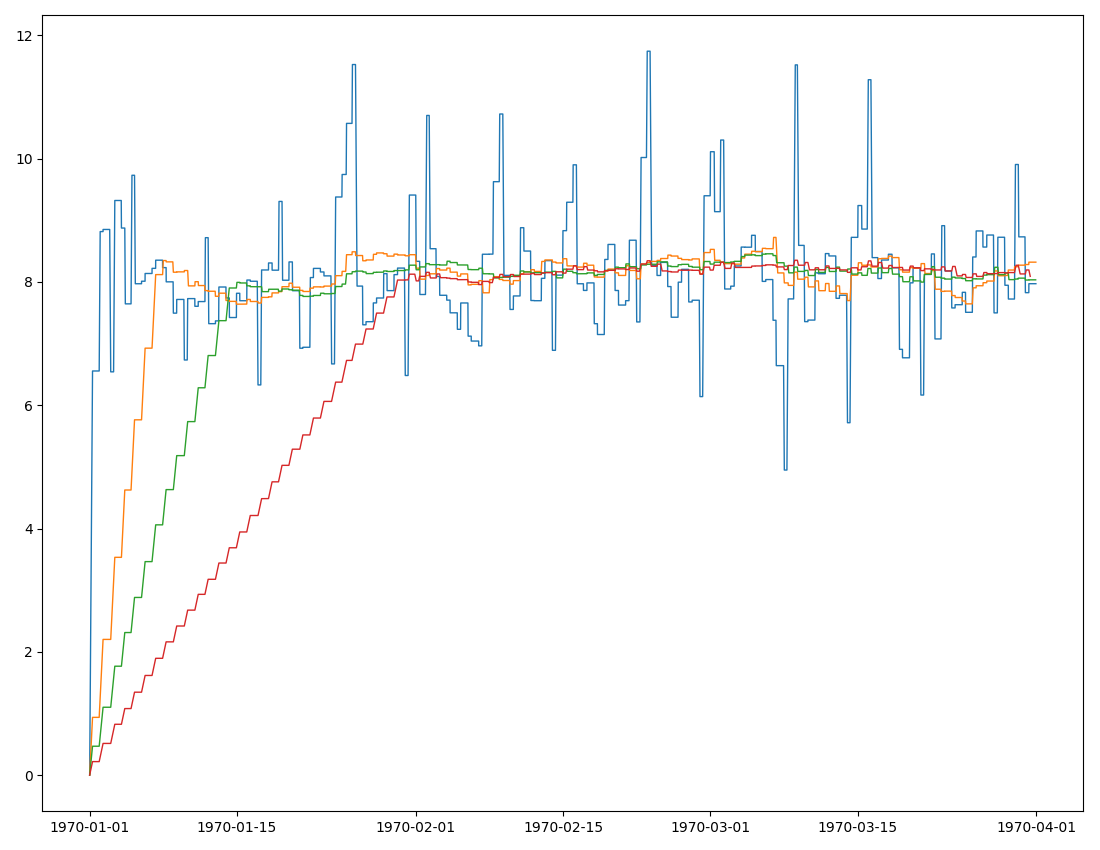
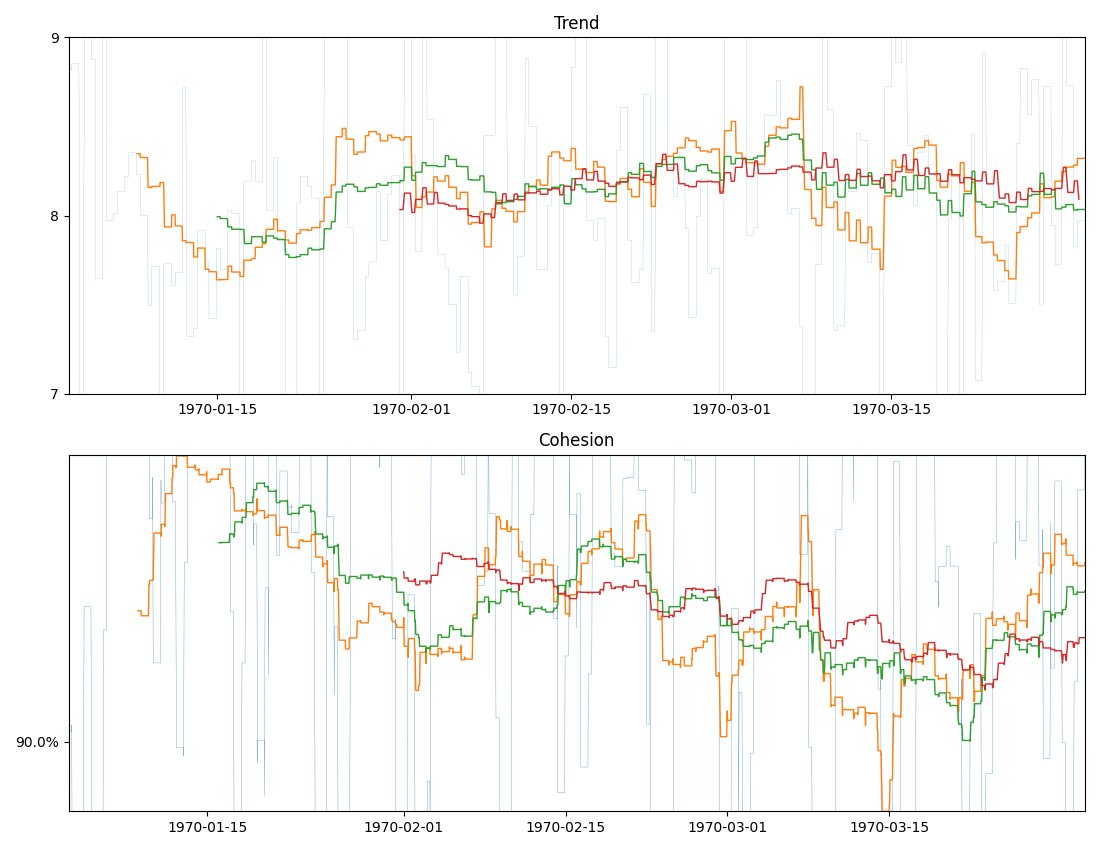
cohesion line graph

diff --git a/render.py b/render.py
@@ -7,7 +7,6 @@ import time
 import datetime
 import math
 import enum
-import collections
 
 from PIL import Image, ImageDraw, ImageFont
 import matplotlib.pyplot as plt
@@ -91,6 +90,7 @@ def main(outfolder, infiles):  # pragma: no cover
     cohesion_lut = colormap_to_lut(cohesion_colormap)
 
     trend_segments = {}
+    cohesion_segments = {}
     for days,name in ((1, "daily"), (7, "weekly"), (14, "fortnightly"), (30, "monthly")):
         interval = days * seconds_per_day
 
@@ -100,11 +100,11 @@ def main(outfolder, infiles):  # pragma: no cover
         draw_chart_frame(*draw_trend_chart(trend_segments[days], interval, trend_lut)).save(f"{outfolder}/trend_{name}.png")
 
         print()
-        cohesion_segments = calc_trend_segment_values(split_segments(make_cohesion_segments(trend_segments[1], interval)), interval)
-        draw_chart_frame(*draw_trend_chart(cohesion_segments, interval, cohesion_lut, normalized=True, extra_ignore_interval=seconds_per_day), percentage=True).save(f"{outfolder}/cohesion_{name}.png")
+        cohesion_segments[days] = calc_trend_segment_values(split_segments(make_cohesion_segments(trend_segments[1], interval)), interval)
+        draw_chart_frame(*draw_trend_chart(cohesion_segments[days], interval, cohesion_lut, normalized=True, extra_ignore_interval=seconds_per_day), percentage=True).save(f"{outfolder}/cohesion_{name}.png")
 
     print()
-    figs = draw_plots(events, off_segments, on_segments, trend_segments)
+    figs = draw_plots(events, off_segments, on_segments, trend_segments, cohesion_segments)
     for i,fig in enumerate(figs):
         fig.savefig(f"{outfolder}/plots{i+1}.png")
         fig.savefig(f"{outfolder}/plots{i+1}.pdf")
@@ -612,7 +612,7 @@ def format_hours(t):
     return "{:2.0f}:{:02.0f}".format(hours, minutes)
 
 
-def draw_plots(events, off_segments, on_segments, trend_segments):
+def draw_plots(events, off_segments, on_segments, trend_segments, cohesion_segments):
     print("drawing plots...")
 
     advanced_plots = True
@@ -713,13 +713,52 @@ def draw_plots(events, off_segments, on_segments, trend_segments):
     w = 11
     h = 8.5
 
-    fig2, ax = plt.subplots(1, 1, figsize=(w,h), tight_layout=True)
+    fig2, axs = plt.subplots(2, 1, figsize=(w,h), tight_layout=True)
 
-    
+    full_range = False
+
+    x5 = {}
+    y5 = {}
     for k in trend_segments:
-        x5 = [datetime.datetime.fromtimestamp(time.mktime(i.start)) for i in trend_segments[k]]
-        y5 = [i.start_value/(60*60*k) for i in trend_segments[k]]
-        ax.plot(x5, y5, linewidth=1)
+        x5[k] = []
+        y5[k] = []
+        for s in trend_segments[k]:
+            if time.mktime(s.start) < time.mktime(trend_segments[k][0].start) + (k * seconds_per_day):
+                continue
+            x5[k].append(datetime.datetime.fromtimestamp(time.mktime(s.start)))
+            y5[k].append(s.start_value / (k * 60 * 60))
+        linewidth = 0.1 if k == 1 else 1
+        axs[0].plot(x5[k], y5[k], linewidth=linewidth)
+    axs[0].set_title("Trend")
+    axs[0].set_xlim(x5[1][0], x5[1][-1])
+    if full_range or not y5[7]:
+        axs[0].set_ylim(0, 24)
+    else:
+        axs[0].set_ylim(math.floor(min(y5[7])), math.ceil(max(y5[7])))
+    axs[0].xaxis.set_minor_locator(matplotlib.dates.MonthLocator())
+    axs[0].yaxis.set_major_locator(matplotlib.ticker.MultipleLocator(4 if full_range else 1))
+    
+    x6 = {}
+    y6  ={}
+    for k in cohesion_segments:
+        x6[k] = []
+        y6[k] = []
+        for s in cohesion_segments[k]:
+            if time.mktime(s.start) < time.mktime(cohesion_segments[k][0].start) + ((k + 1) * seconds_per_day):
+                continue
+            x6[k].append(datetime.datetime.fromtimestamp(time.mktime(s.start)))
+            y6[k].append((s.start_value * 100) / (k * seconds_per_day))
+        linewidth = 0.2 if k == 1 else 1
+        axs[1].plot(x6[k], y6[k], linewidth=linewidth)
+    axs[1].set_title("Cohesion")
+    axs[1].set_xlim(x6[1][0], x6[1][-1])
+    if full_range or not y6[7]:
+        axs[1].set_ylim(0, 100)
+    else:
+        axs[1].set_ylim(min(y6[7]), max(y6[7]))
+    axs[1].xaxis.set_minor_locator(matplotlib.dates.MonthLocator())
+    axs[1].yaxis.set_major_locator(matplotlib.ticker.MultipleLocator(10))
+    axs[1].yaxis.set_major_formatter(matplotlib.ticker.PercentFormatter())
 
     return (fig1, fig2)
 
